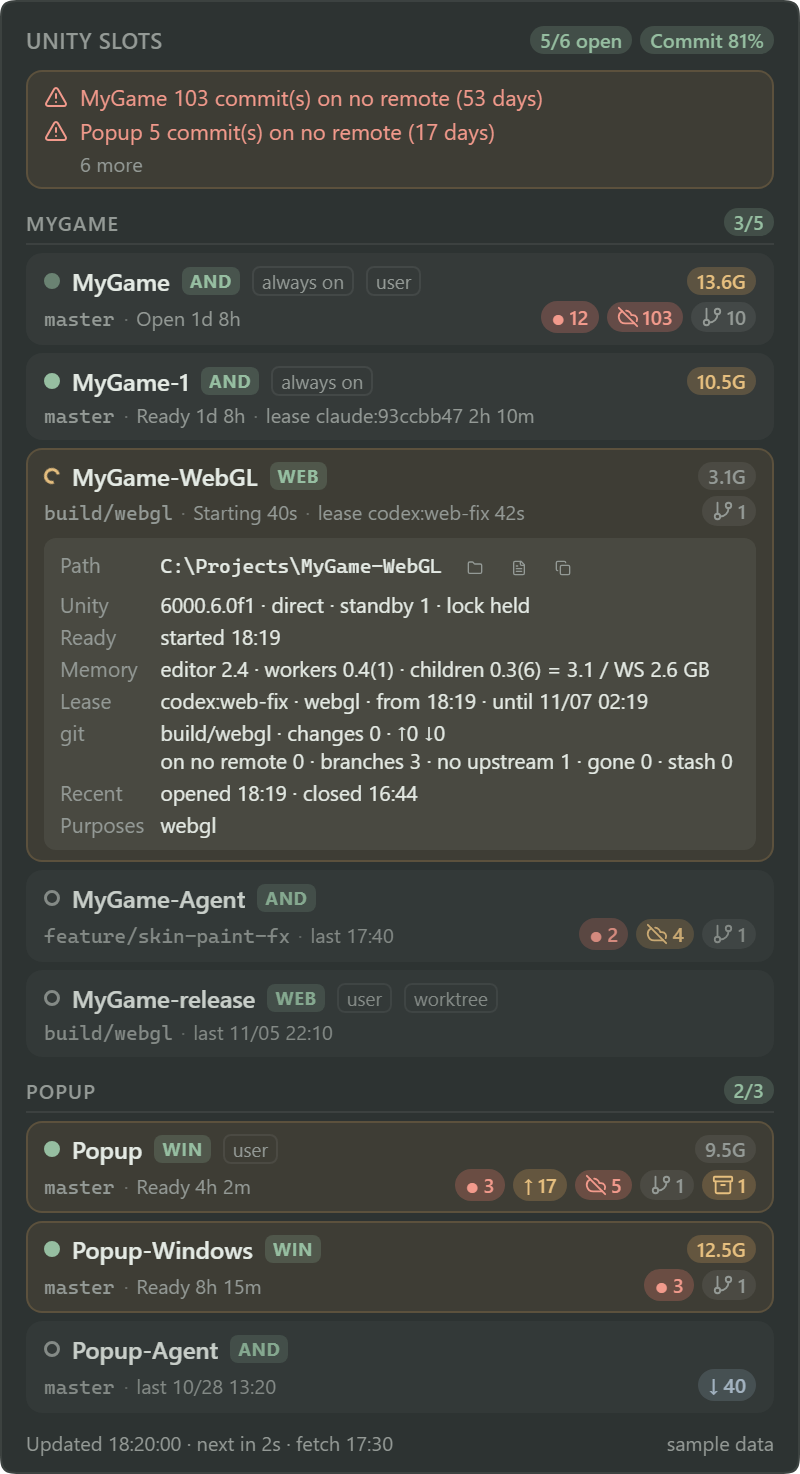
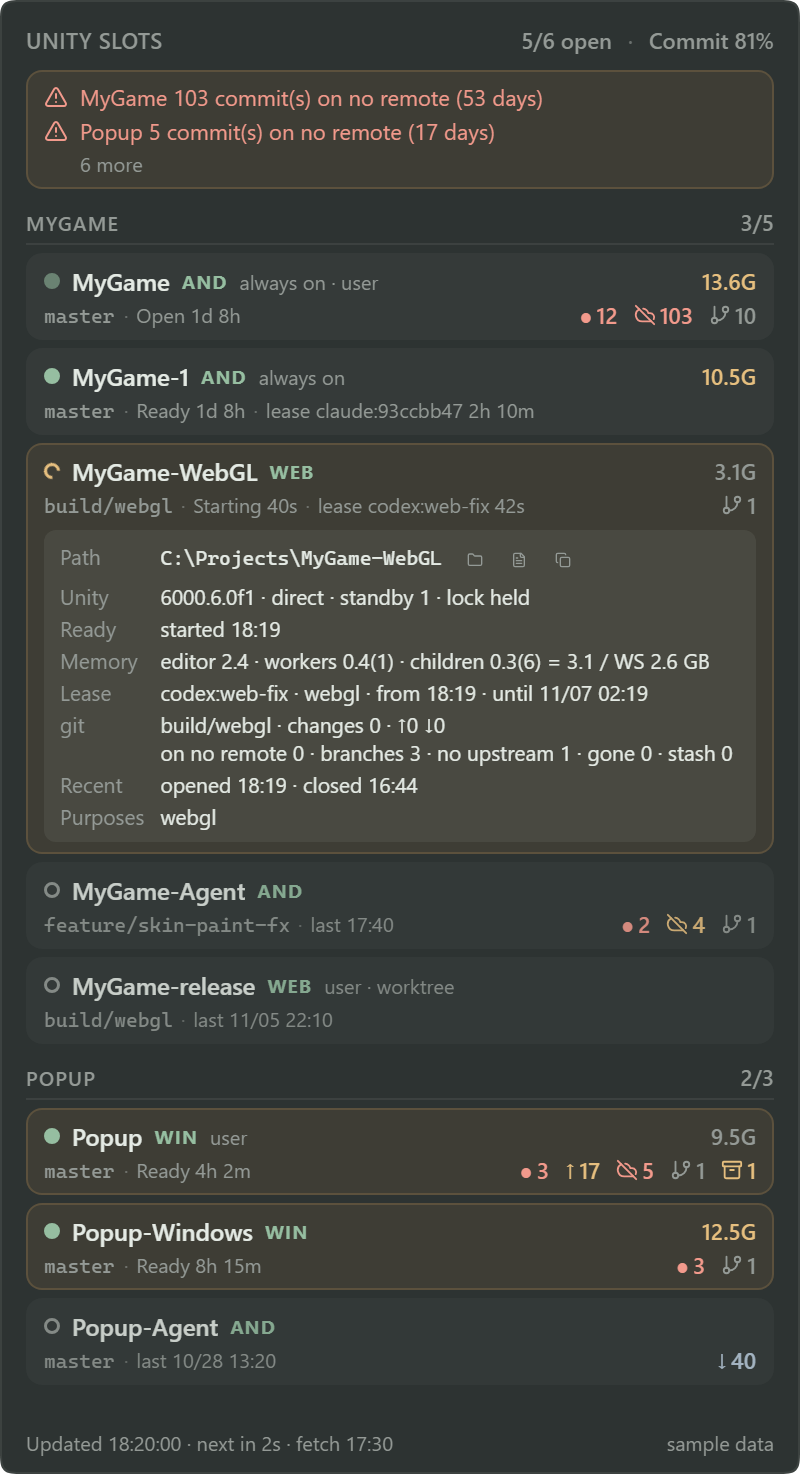
문서 - README 스크린샷을 배경 없는 숫자 표시로 다시 찍고 배지 표현을 표시로 정리

diff --git a/README.md b/README.md
@@ -26,14 +26,14 @@
 |---|---|
 | 머리 띠 | 열린 에디터 수 / 최대(`maxEditors`), 시스템 커밋 % (85% 주의, 90% 위험) |
 | 경고 띠 | 임대 없이 열린 에디터, 만료된 임대인데 열린 에디터, 시작 멈춤, 저장 안 한 씬, 오래된 로컬 커밋 같은 것. 누르면 모두 펼칩니다 |
-| 슬롯 카드 | 상태 점, 이름, 플랫폼, 상시·사용자·워크트리 표시, 브랜치, 상태와 시간, 임대, 메모리, git 배지 |
+| 슬롯 카드 | 상태 점, 이름, 플랫폼, 상시·사용자·워크트리 표시, 브랜치, 상태와 시간, 임대, 메모리, git 표시 |
 | 바닥 줄 | 갱신 시각, 다음 조회까지, 마지막 fetch, 등록 안 된 에디터·고아 워커, unity-slot 버전 |
 
 **상태 점:** ● 준비됨 · ◐ 여는 중 · ● 빨강 멈춤 · ○ 닫힘 · ■ batch · 흐린 ● 열림(Hub로 열어 준비 여부를 모름) · 점선 ○ 경로 없음
 
-**git 배지:**
+**git 표시:**
 
-| 배지 | 뜻 |
+| 표시 | 뜻 |
 |---|---|
 | `● 12` | 커밋 안 한 변경 |
 | `↑ 1` · `↓ 2` | upstream보다 앞섬·뒤짐(마지막 fetch 기준) |

diff --git a/README.en.md b/README.en.md
@@ -26,14 +26,14 @@ The widget is **read-only**. It never opens, closes or leases a slot. `unity-slo
 |---|---|
 | Header | Open editors / maximum (`maxEditors`), system commit % (85% warning, 90% critical) |
 | Warning band | An editor open without a lease, an expired lease on an open editor, a stalled start, an unsaved scene, old local-only commits, and more. Click to see them all |
-| Slot card | State dot, name, platform, always-on / user / worktree tags, branch, state and time, lease, memory, git pills |
+| Slot card | State dot, name, platform, always-on / user / worktree tags, branch, state and time, lease, memory, git marks |
 | Footer | Updated time, next check, last fetch, unregistered editors and orphan workers, unity-slot version |
 
 **State dot:** ● ready · ◐ starting · red ● stalled · ○ closed · ■ batch · dim ● open (started by the Hub, readiness unknown) · dashed ○ path missing
 
-**git pills:**
+**git marks:**
 
-| Pill | Meaning |
+| Mark | Meaning |
 |---|---|
 | `● 12` | Uncommitted changes |
 | `↑ 1` · `↓ 2` | Ahead of / behind upstream (as of the last fetch) |
